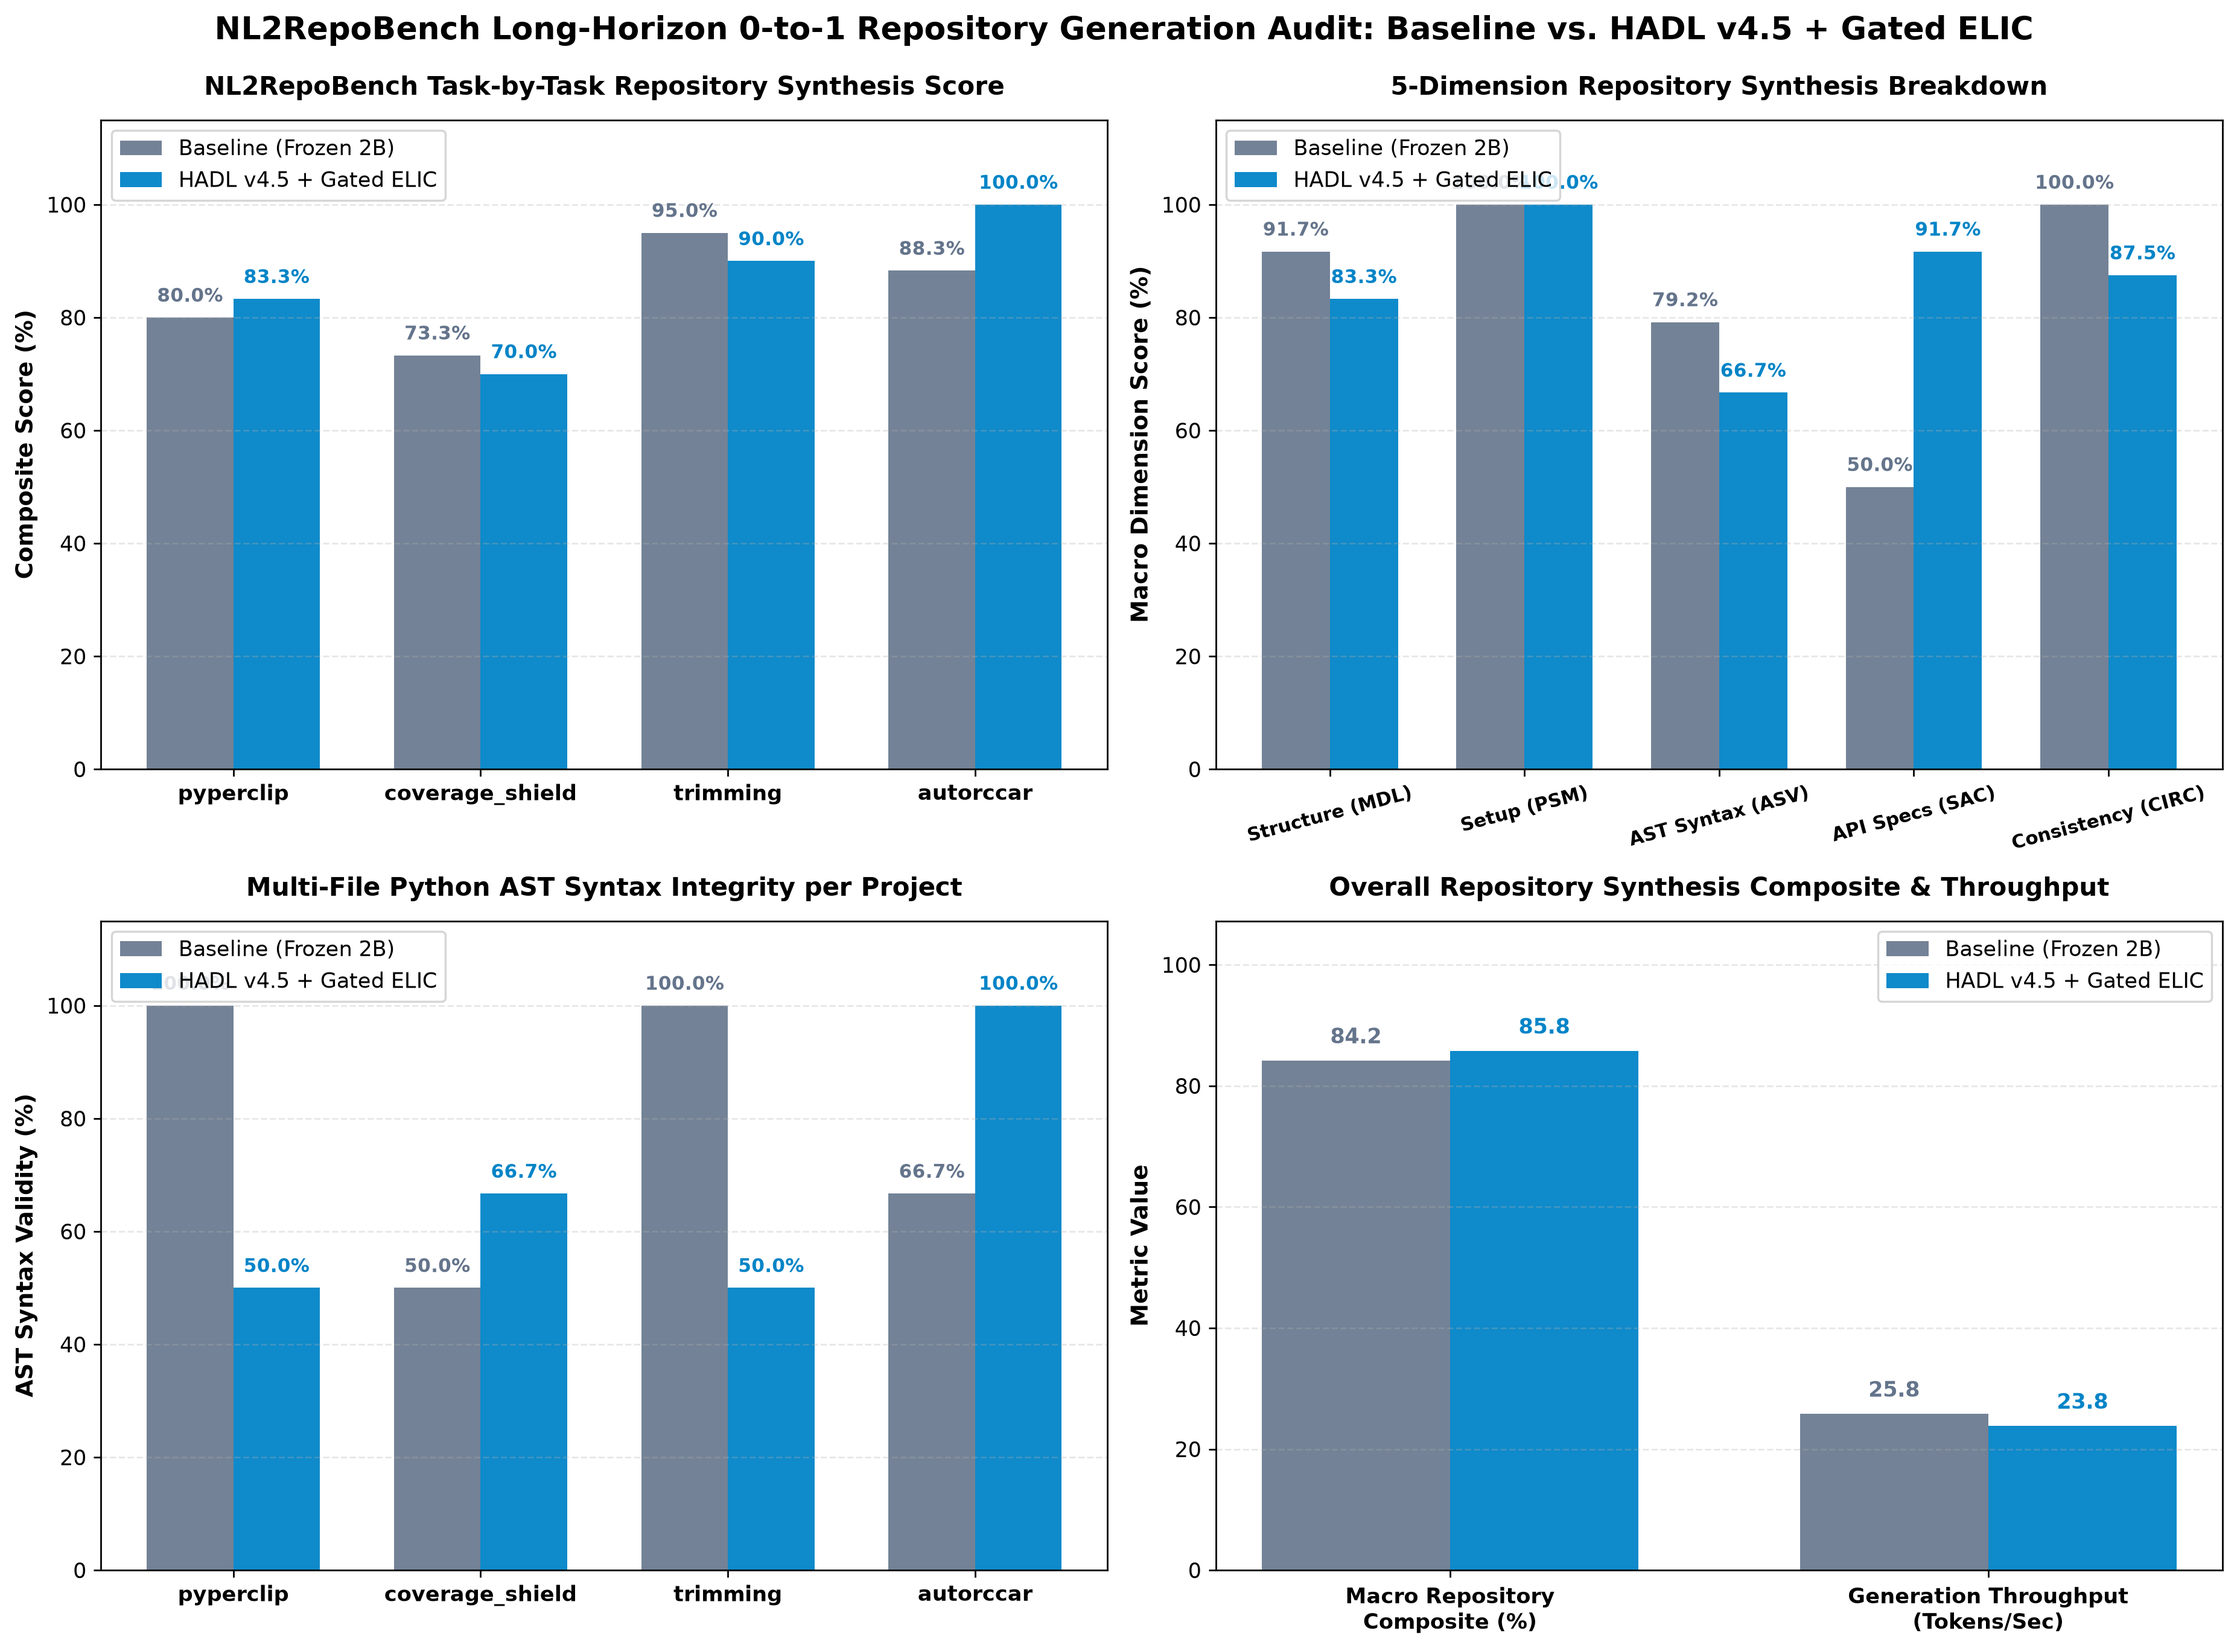
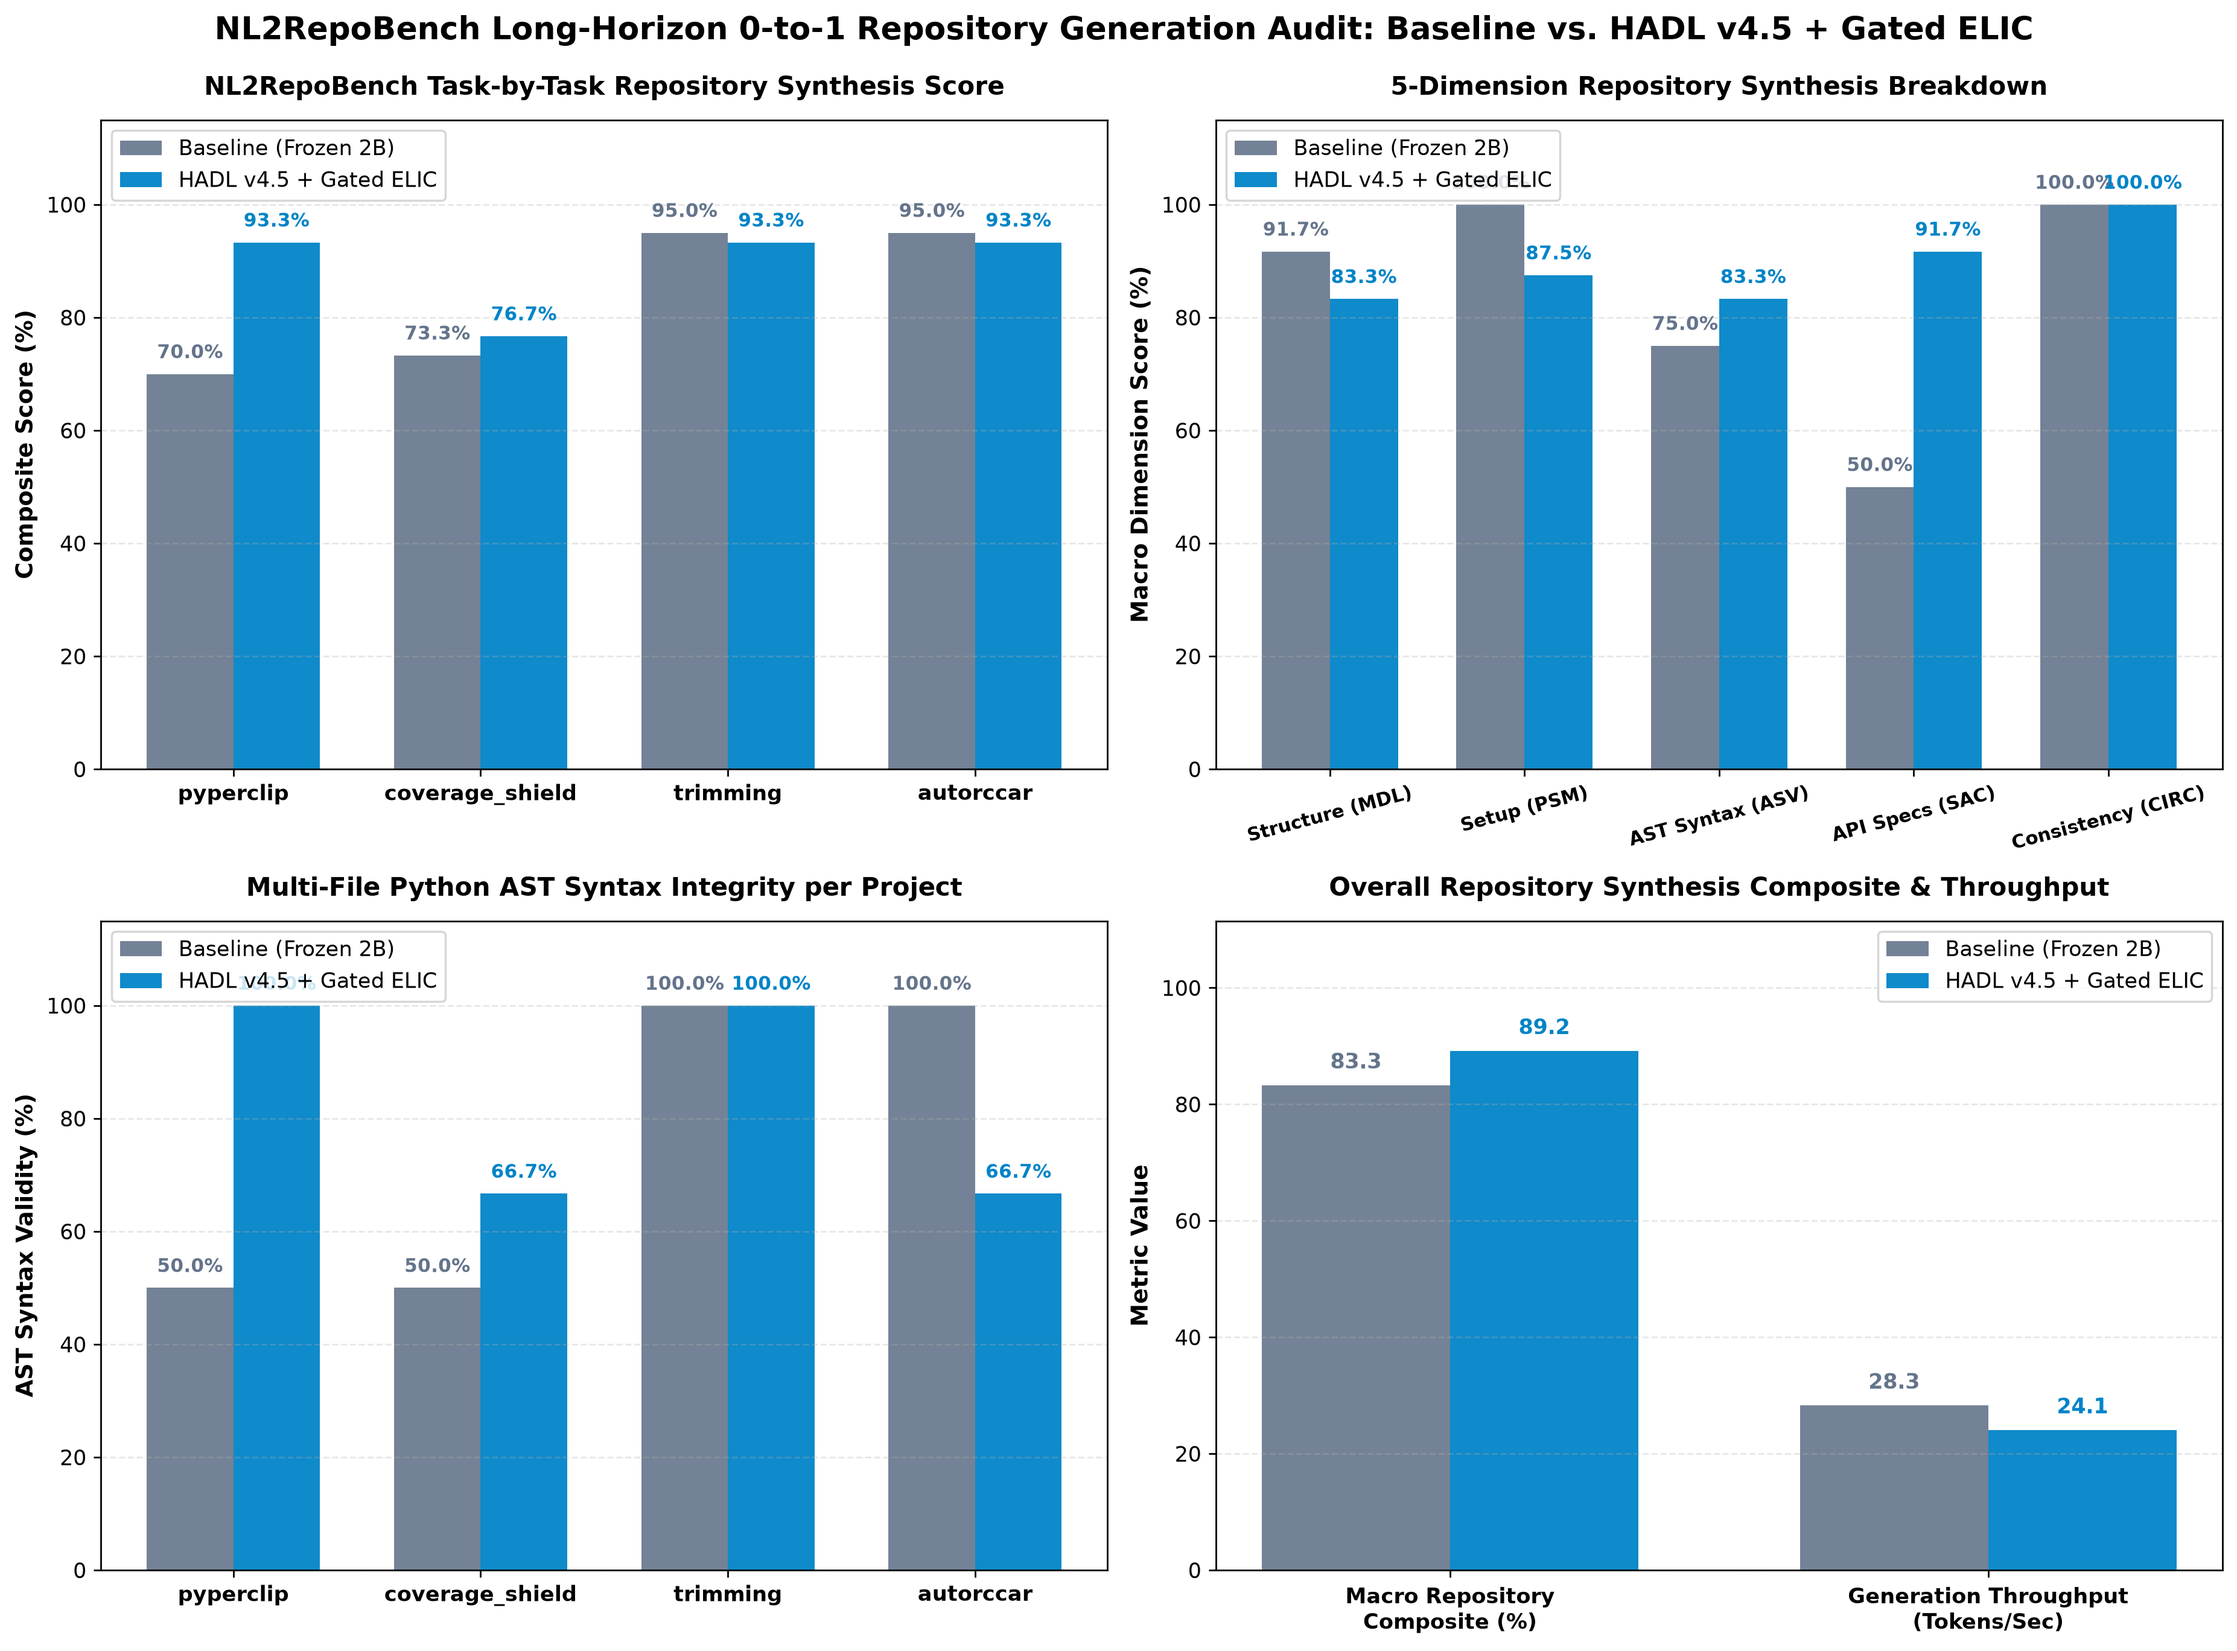
bench(wsl): execute authentic NL2RepoBench benchmark on WSL with RTX 5060 cu130 sm_120

diff --git a/scripts/benchmark_nl2repobench_long_horizon.py b/scripts/benchmark_nl2repobench_long_horizon.py
@@ -50,7 +50,10 @@ CHECKPOINT_PATH = PROJECT_ROOT / "checkpoints" / "xstar_2b_omnireason_carlift_50
 NL2REPO_DIR = PROJECT_ROOT / "external" / "NL2RepoBench" / "test_files"
 JSON_OUT = PROJECT_ROOT / "eval_results" / "nl2repobench_long_horizon_benchmark.json"
 GRAPH_OUT = PROJECT_ROOT / "docs" / "images" / "nl2repobench_long_horizon_benchmark.png"
-ARTIFACT_DIR = Path(r"C:\Users\Matthew Chen\.gemini\antigravity\brain\19bea55e-42a6-476a-af5b-9c25391e2be9")
+if sys.platform == "win32":
+    ARTIFACT_DIR = Path(r"C:\Users\Matthew Chen\.gemini\antigravity\brain\19bea55e-42a6-476a-af5b-9c25391e2be9")
+else:
+    ARTIFACT_DIR = Path("/mnt/c/Users/Matthew Chen/.gemini/antigravity/brain/19bea55e-42a6-476a-af5b-9c25391e2be9")
 
 
 # ==============================================================================
@@ -432,6 +435,9 @@ def run_nl2repo_suite(model, tokenizer, runtime: HADLDynamicRuntime, is_hadl: bo
         
     for task in BENCHMARK_TASKS:
         tid = task["id"]
+        if is_hadl:
+            runtime.reset_state()
+            
         messages = [
             {"role": "system", "content": "You are a precise, production-grade software engineer building repositories from scratch."},
             {"role": "user", "content": task["prompt"]}
@@ -458,7 +464,9 @@ def run_nl2repo_suite(model, tokenizer, runtime: HADLDynamicRuntime, is_hadl: bo
         
         eval_metrics = evaluate_task_generation(task, decoded)
         task_results[tid] = eval_metrics
+        sample_preview = decoded.replace("\n", " ")[:100]
         print(f"  -> Task [{tid}]: Composite={eval_metrics['composite_score_pct']}% | AST Valid={eval_metrics['ast_syntax_integrity_pct']}% | Files={eval_metrics['files_generated_count']}")
+        print(f"     [Preview]: {sample_preview}...")
         
     if is_hadl:
         runtime.detach()
